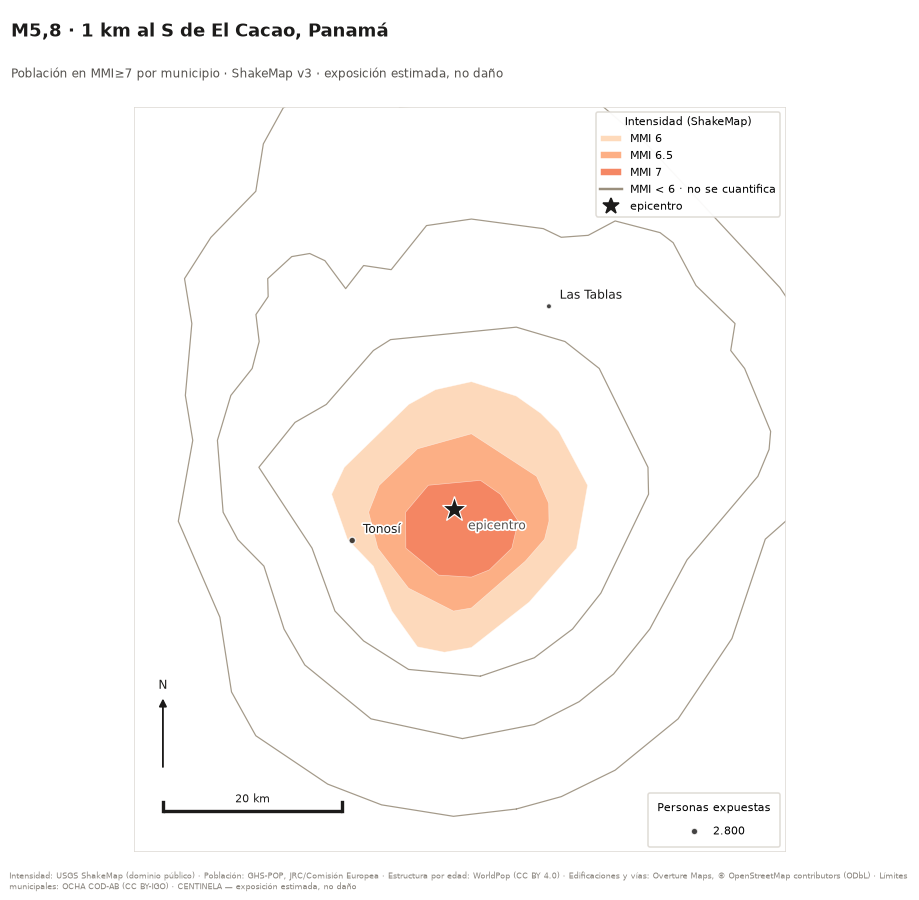
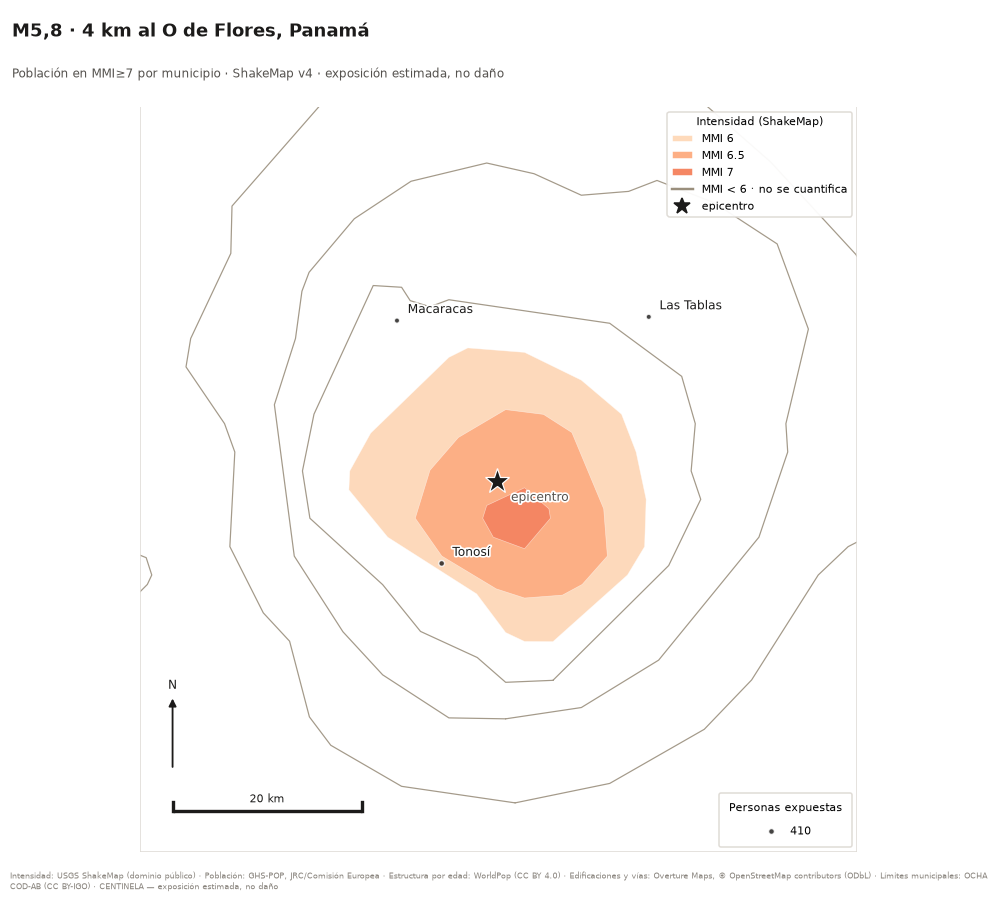
P3: reporte de us6000u18x

diff --git a/reports/us6000u18x/report.md b/reports/us6000u18x/report.md
@@ -1,4 +1,4 @@
-# Exposición sísmica: M5,8 · 1 km al S de El Cacao, Panamá
+# Exposición sísmica: M5,8 · 4 km al O de Flores, Panamá
 
 **Evento USGS:** `us6000u18x` · **Origen:** 2026-10-09T18:37:46Z UTC · **Profundidad:** 10,0 km
 
@@ -6,38 +6,38 @@
 
 | Indicador | Estimado |
 |---|---:|
-| Población en MMI≥6 | 6.600 |
-| Población en MMI≥7 | 2.800 |
+| Población en MMI≥6 | 7.200 |
+| Población en MMI≥7 | 410 |
 | Población en MMI≥8 | el evento no llegó a esta banda |
-| Edificaciones en MMI≥7 | 1.700 |
+| Edificaciones en MMI≥7 | 380 |
 | Sedes de salud en MMI≥7 | 0 |
-| Sedes educativas en MMI≥7 | 1 |
-| Vías primarias y secundarias en MMI≥7 | 13 km |
-| Vías locales en MMI≥7 | 47 km |
-| Superficie construida en MMI≥7 | 0,4 km² |
+| Sedes educativas en MMI≥7 | 0 |
+| Vías primarias y secundarias en MMI≥7 | 4 km |
+| Vías locales en MMI≥7 | 16 km |
+| Superficie construida en MMI≥7 | 0,1 km² |
 
-El satélite detecta **2,5 veces** más superficie construida de la que explicarían las 1.700 edificaciones registradas en MMI≥7. La diferencia suele ser asentamiento informal o zona rural dispersa sin mapear: **el conteo de edificaciones se queda corto ahí, y la superficie construida no**.
+El satélite detecta **1,9 veces** más superficie construida de la que explicarían las 380 edificaciones registradas en MMI≥7. La diferencia suele ser asentamiento informal o zona rural dispersa sin mapear: **el conteo de edificaciones se queda corto ahí, y la superficie construida no**.
 
 Las cifras de esta tabla van redondeadas a dos cifras significativas, que es la precisión que un modelo de exposición sostiene. Las exactas están en el CSV municipal y en `report.json`.
 
-De la población en intensidad MMI≥7, alrededor de **410** personas tienen 65 años o más.
+De la población en intensidad MMI≥7, alrededor de **49** personas tienen 65 años o más.
 
 ## Municipios más expuestos, por población en MMI≥7
 
 | # | Municipio | Código | MMI max | Población MMI≥7 |
 |---:|---|---|---:|---:|
-| 1 | Tonosí | `PA0907` | 7,0 | 2.800 |
+| 1 | Tonosí | `PA0907` | 7,0 | 410 |
 
 ## Deslizamiento y licuefacción
 
 - **Deslizamiento.** Población en celdas de MMI≥6 donde el modelo espera ≥ 0,10 de probabilidad de deslizamiento según `jessee_2018_model.tif`: **0**.
-- **Licuefacción.** Población en celdas de MMI≥6 donde el modelo espera ≥ 0,10 de cobertura areal por licuefacción según `zhu_2017_general_model.tif`: **3.700**. USGS declara para este evento alerta **amarilla**, con 550 expuestas.
+- **Licuefacción.** Población en celdas de MMI≥6 donde el modelo espera ≥ 0,10 de cobertura areal por licuefacción según `zhu_2017_general_model.tif`: **3.500**. USGS declara para este evento alerta **amarilla**, con 540 expuestas.
 
 Las dos cifras se cuentan sobre las celdas del corte publicado (MMI≥6). **No son las de USGS y no se pueden comparar de frente**: aquí se cuenta la población entera de toda celda por encima del umbral, y USGS pondera la población de cada celda por el valor de esa celda. Son dos preguntas distintas sobre el mismo ráster.
 
 **Y el umbral se evalúa en un solo punto por celda: su centroide.** El píxel del ráster es más pequeño que la celda, así que ese punto decide si entra la población entera de la celda o no entra ninguna. No es una estadística areal, y el sesgo que introduce no está medido: puede quedarse corto o pasarse.
 
-Fuente: producto *Ground Failure* de USGS (v3), dominio público.
+Fuente: producto *Ground Failure* de USGS (v4), dominio público.
 
 ## Referencia cruzada
 
@@ -47,10 +47,19 @@ Las dos cifras **no se tabulan igual** y no se pueden leer una contra otra: PAGE
 
 ## Incertidumbre y calidad
 
-Discrepancia entre GHS-POP y WorldPop en las bandas MMI publicadas: **0,3 %**.
+Discrepancia entre GHS-POP y WorldPop en las bandas MMI publicadas: **3,8 %**.
 
 ## Cambios frente a la versión anterior
 
+- ShakeMap: v3 (us) → v4 (us)
+- Ground Failure: v3 (us) → v4 (us)
+- Epicentro: reubicado 8 km
+- Población en MMI≥6: 6.600 → 7.200
+- Población en MMI≥7: 2.800 → 410
+- Población de 65 años o más en MMI≥7: 410 → 49
+- Edificaciones en MMI≥7: 1.700 → 380
+- Sedes educativas en MMI≥7: 1 → 0
+- Población en cobertura areal alta por licuefacción: 3.700 → 3.500
 - ShakeMap: v2 (us) → v3 (us)
 - Ground Failure: v2 (us) → v3 (us)
 - Ninguna cifra publicada cambia frente a la versión anterior.
@@ -73,10 +82,10 @@ Discrepancia entre GHS-POP y WorldPop en las bandas MMI publicadas: **0,3 %**.
 
 ## Procedencia
 
-- ShakeMap consumido: **v3** de `us`
-- Ground Failure consumido: **v3** de `us`
-- Manifiesto de exposición: [`pan-v0.4`](https://github.com/sforero77/CENTINELA/blob/main/data/manifests/PAN.yaml)
-- Pipeline: `0.1.0` · Generado: 2026-10-11T11:21:10Z
+- ShakeMap consumido: **v4** de `us`
+- Ground Failure consumido: **v4** de `us`
+- Manifiesto de exposición: [`pan-v0.5`](https://github.com/sforero77/CENTINELA/blob/main/data/manifests/PAN.yaml)
+- Pipeline: `0.1.0` · Generado: 2026-11-02T12:01:29Z
 
 ## Advertencias
 
